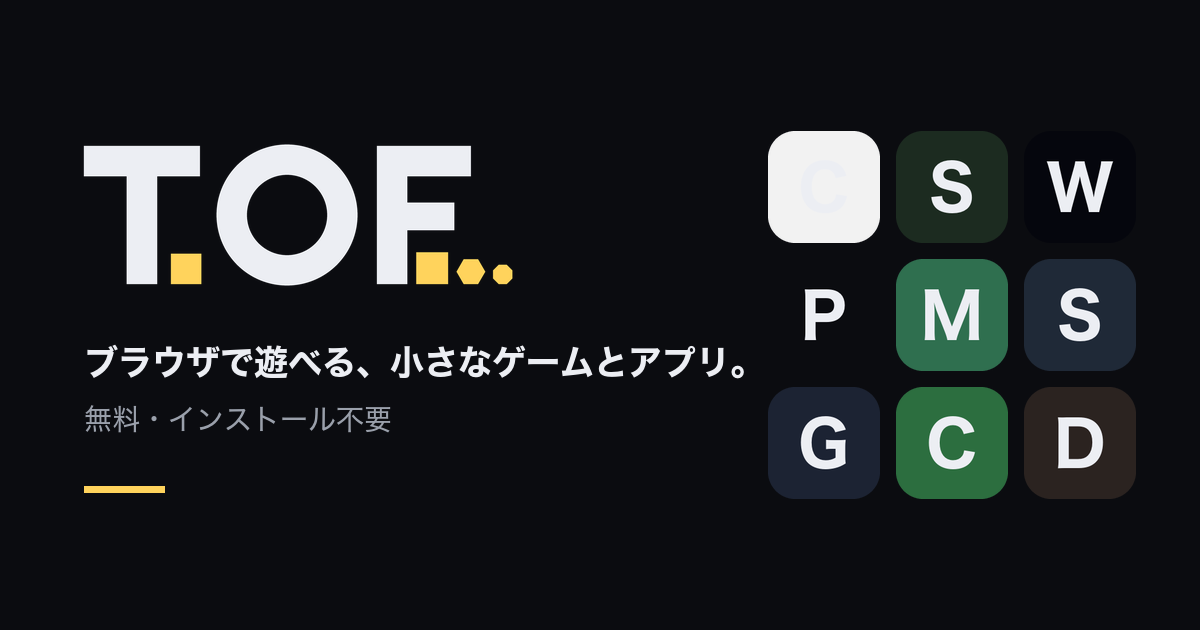
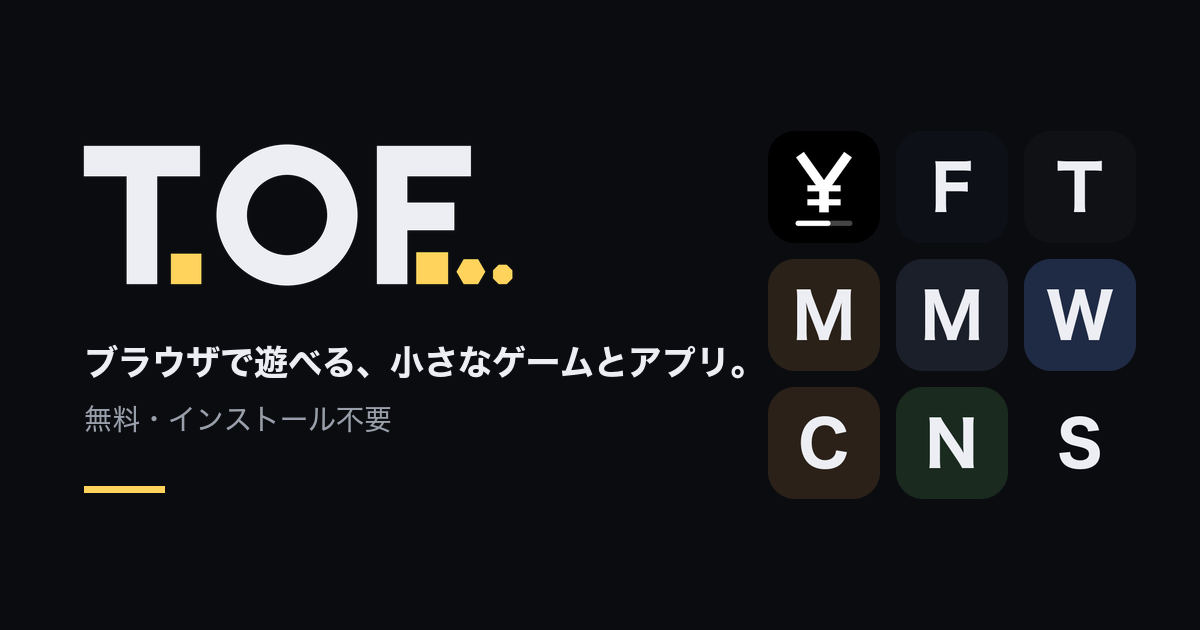
PAYTICK（旧 wage-counter）をポータルに載せる

Changed region(s): [[0.6167, 0.181, 0.9558, 0.8143]]

diff --git a/apps.js b/apps.js
@@ -27,6 +27,17 @@
 
 window.TOFO_APPS = [
   {
+    id: 'paytick',
+    name: 'PAYTICK',
+    title: '時給を1秒ごとに数える秒給メーター',
+    desc: '時給と働く時間を入れてスタートすると、いま稼いだ金額が1秒ごとに増えていく。秒給・分給・ゴールの金額もすぐ分かる。',
+    category: 'tool',
+    tags: ['お金', 'タイマー'],
+    icon: '/paytick/icons/icon-192.png',
+    color: '#000000',
+    approved: true,
+  },
+  {
     id: 'four-digits',
     name: 'OCCAM',
     title: '試作 4つの数字で1〜100を作る数字パズル',

diff --git a/demo/index.html b/demo/index.html
@@ -142,7 +142,7 @@
 
   <script src="../webapp-kit/webapp-kit.js"></script>
   <script>window.TOFO_DEMO = true;</script>
-  <script src="../apps.js?v=20261106a"></script>
+  <script src="../apps.js?v=20261106b"></script>
   <script src="../main.js?v=20261001b"></script>
 </body>
 </html>

diff --git a/index.html b/index.html
@@ -157,7 +157,7 @@
   </div>
 
   <script src="./webapp-kit/webapp-kit.js"></script>
-  <script src="./apps.js?v=20261106a"></script>
+  <script src="./apps.js?v=20261106b"></script>
   <script src="./main.js?v=20261001b"></script>
 </body>
 </html>
